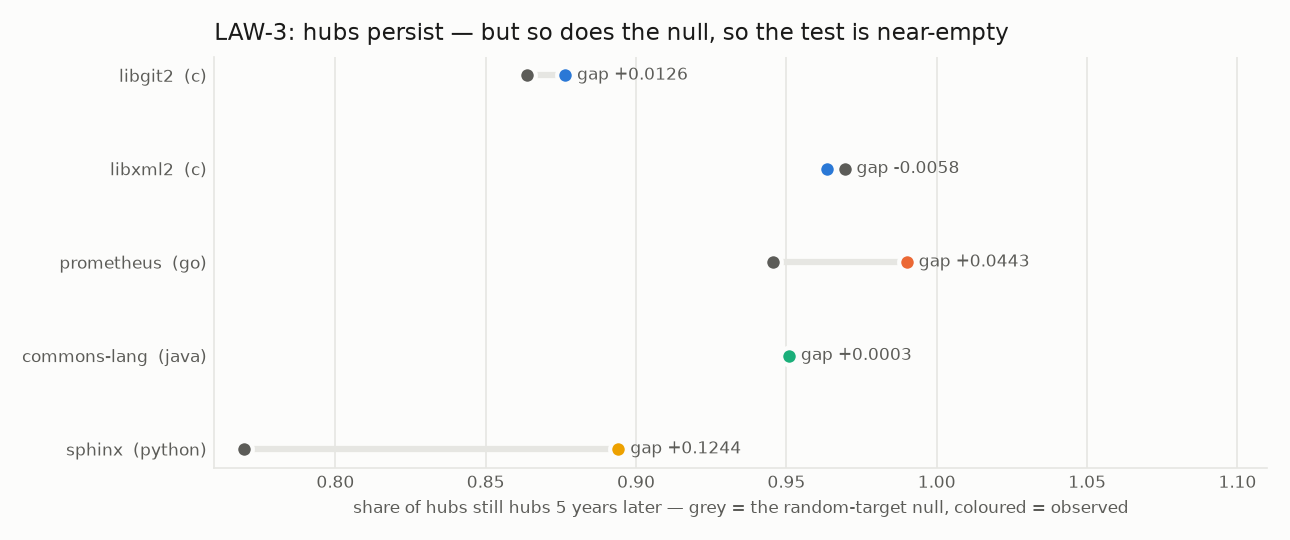
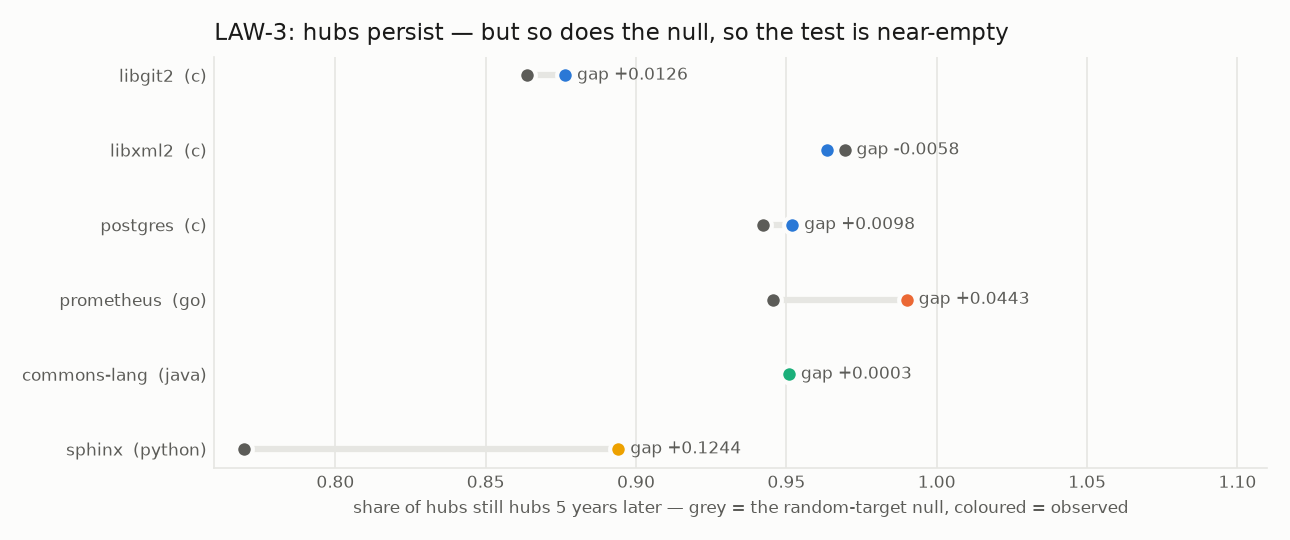
LAWS exploratory: 8 development repos, and one law survives every check
The full law run over the eight development repos whose quarterly walks already
existed -- 626 quarterly snapshots, 5 languages, 0 law failures, 13,096 s. Kept
because the owner asked what the data we DID get can still say. Descriptive, the
development set, not a panel result; LAWS stays closed as a failure.

**LAW-2 preferential attachment is the only law that holds up under everything.**
8 of 8 repos clear the registered margin with the whole 95% interval (effects 1.16
to 1.79, every language); it moves a median of 5% when 44% of resolved call edges
are deleted; and it needs the smallest panel of any law, ~2 repos per language.

**LAW-5 decay is contradicted.** Its registered direction fails in 7 of 8 repos --
only ripgrep, much the youngest at 33 quarters, decays. In the older C projects
directory modularity is flat or RISING across two decades.

The rest do not survive their own diagnostics:

- LAW-1 heavy tails: 6/8 clear the margin, but x_min runs 1-10 and "the tail" is
  8% to 100% of nodes depending on the repo, and the power law is rejected outright
  in sphinx, whose registered effect is positive anyway.
- LAW-4 centralisation: 5/8 statistically non-zero at a largest Gini gap of 0.029,
  and the coverage ladder now puts its worst case at 1093% -- up from 30% on five
  repos. Detectable, not meaningful, and tracking the extractor.
- LAW-3 hub persistence: 1/6, null sits on the observation, 157% swing.
- LAW-8: adding network metrics moves AUC by -0.028 to +0.015.
[…]

diff --git a/tools/laws_explore.py b/tools/laws_explore.py
@@ -291,8 +291,14 @@ def sensitivity(repos, thinned, share, figdir: Path, md: Path):
     ax.axvline(0, color=MUTED, lw=1.2, zorder=2)
     ax.set_yticks(range(len(rows)))
     ax.set_yticklabels([f"{r} · {l}" for r, l, _, _, _ in rows], fontsize=7.5, color=INK)
-    ax.set_xlabel(f"% change in the law's effect when {(1-(share or 0))*100:.0f}% of resolved edges are removed",
-                  fontsize=8, color=MUTED)
+    # symlog: one repo's LAW-4 moves by ~1000% while most cells sit under 30%. On a linear axis that single
+    # outlier flattens every other mark into the spine, which hides the comparison the figure exists to make.
+    ax.set_xscale("symlog", linthresh=20)
+    ax.set_xticks([-1000, -100, -20, 0, 20, 100, 1000])
+    ax.set_xticklabels(["-1000%", "-100%", "-20%", "0", "+20%", "+100%", "+1000%"])
+    ax.axvspan(-20, 20, color=GRID, alpha=0.45, zorder=0)  # the linear band, so the scale change is visible
+    ax.set_xlabel(f"% change in the law's effect when {(1-(share or 0))*100:.0f}% of resolved edges are removed"
+                  f"  —  shaded band is +/-20%, axis is symlog beyond it", fontsize=8, color=MUTED)
     ax.set_facecolor(SURFACE)
     for sp in ("top", "right"):
         ax.spines[sp].set_visible(False)
@@ -300,7 +306,9 @@ def sensitivity(repos, thinned, share, figdir: Path, md: Path):
         ax.spines[sp].set_color(GRID)
     ax.tick_params(colors=MUTED, labelsize=8, length=0)
     ax.grid(axis="x", color=GRID, lw=0.8); ax.set_axisbelow(True); ax.invert_yaxis()
-    ax.set_title("Which laws survive a worse call graph? LAW-2 barely moves; LAW-3 swings by half",
+    worst = max(rows, key=lambda r: abs(r[4]))
+    ax.set_title(f"Which laws survive a worse call graph? LAW-2 barely moves; "
+                 f"{worst[0]} {worst[1]} moves {worst[4]*100:+.0f}%",
                  fontsize=11, color=INK, loc="left", pad=8)
     fig.tight_layout(); q = figdir / "f7_coverage_sensitivity.png"
     fig.savefig(q, dpi=150, facecolor=SURFACE); plt.close(fig)

diff --git a/docs/laws_exploratory_tables.md b/docs/laws_exploratory_tables.md
@@ -1,17 +1,20 @@
 # LAWS exploratory tables (development repos only; descriptive)
 
-5 repos, 4 languages. `clears` = the whole 95% interval is past the registered margin in the registered direction.
+8 repos, 5 languages. `clears` = the whole 95% interval is past the registered margin in the registered direction.
 
 
 ## LAW-1 heavy tails (margin 0.0)
 
 | repo | language | effect | SE | 95% interval | verdict | note |
 |---|---|---|---|---|---|---|
-| libgit2 | c | +0.1836 | 0.0401 | +0.105, +0.262 | **clears** | x_min 2, tail 48% of nodes, GOF p 0.603, strength strong |
-| libxml2 | c | +0.0618 | 0.0326 | -0.002, +0.126 | **straddles** | x_min 10, tail 8% of nodes, GOF p 0.303, strength strong |
-| prometheus | go | +0.0877 | 0.0179 | +0.053, +0.123 | **clears** | x_min 2, tail 40% of nodes, GOF p 0.444, strength weak |
-| commons-lang | java | +0.1132 | 0.0575 | +0.001, +0.226 | **clears** | x_min 3, tail 23% of nodes, GOF p 0.264, strength strong |
-| sphinx | python | +0.0999 | 0.0182 | +0.064, +0.136 | **clears** | x_min 1, tail 100% of nodes, GOF p 0.012, strength none |
+| libgit2 | c | +0.1836 | 0.0413 | +0.103, +0.265 | **clears** | x_min 2, tail 48% of nodes, GOF p 0.603, strength strong |
+| libxml2 | c | +0.0618 | 0.0334 | -0.004, +0.127 | **straddles** | x_min 10, tail 8% of nodes, GOF p 0.291, strength strong |
+| postgres | c | +0.2634 | 0.0237 | +0.217, +0.310 | **clears** | x_min 3, tail 32% of nodes, GOF p 0.492, strength weak |
+| redis | c | +0.1688 | 0.0259 | +0.118, +0.220 | **clears** | x_min 5, tail 17% of nodes, GOF p 0.401, strength strong |
+| prometheus | go | +0.0877 | 0.0175 | +0.053, +0.122 | **clears** | x_min 2, tail 40% of nodes, GOF p 0.444, strength weak |
+| commons-lang | java | +0.1132 | 0.0583 | -0.001, +0.228 | **straddles** | x_min 3, tail 23% of nodes, GOF p 0.265, strength strong |
+| sphinx | python | +0.0999 | 0.0181 | +0.064, +0.135 | **clears** | x_min 1, tail 100% of nodes, GOF p 0.012, strength none |
+| ripgrep | rust | +0.0497 | 0.0177 | +0.015, +0.084 | **clears** | x_min 3, tail 33% of nodes, GOF p 0.056, strength none |
 
 ## LAW-2 preferential attachment (margin 0.0)
 
@@ -19,9 +22,12 @@
 |---|---|---|---|---|---|---|
 | libgit2 | c | +1.3097 | 0.0301 | +1.251, +1.369 | **clears** |  |
 | libxml2 | c | +1.2721 | 0.0374 | +1.199, +1.345 | **clears** |  |
+| postgres | c | +1.4108 | 0.0240 | +1.364, +1.458 | **clears** |  |
+| redis | c | +1.4025 | 0.0288 | +1.346, +1.459 | **clears** |  |
 | prometheus | go | +1.4921 | 0.1680 | +1.163, +1.821 | **clears** |  |
 | commons-lang | java | +1.2367 | 0.0663 | +1.107, +1.367 | **clears** |  |
 | sphinx | python | +1.7876 | 0.0775 | +1.636, +1.939 | **clears** |  |
+| ripgrep | rust | +1.1566 | 0.1515 | +0.860, +1.454 | **clears** |  |
 
 ## LAW-3 hub persistence (margin 0.0)
 
@@ -29,19 +35,25 @@
 |---|---|---|---|---|---|---|
 | libgit2 | c | +0.0126 | 0.0110 | -0.009, +0.034 | **straddles** | observed 0.876 vs null 0.864 |
 | libxml2 | c | -0.0058 | 0.0052 | -0.016, +0.005 | **straddles** | observed 0.964 vs null 0.969 |
+| postgres | c | +0.0098 | 0.0055 | -0.001, +0.021 | **straddles** | observed 0.952 vs null 0.942 |
+| redis | c | — | — | — | **not evaluable** | ceiling: the null does not move (mean SD 0.0007 < 0.005) |
 | prometheus | go | +0.0443 | 0.0305 | -0.015, +0.104 | **straddles** | observed 0.990 vs null 0.946 |
 | commons-lang | java | +0.0003 | 0.0025 | -0.004, +0.005 | **straddles** | observed 0.951 vs null 0.950 |
 | sphinx | python | +0.1244 | 0.0439 | +0.038, +0.210 | **clears** | observed 0.894 vs null 0.770 |
+| ripgrep | rust | — | — | — | **not evaluable** | fewer than 3 five-year pairs with 10 hubs |
 
 ## LAW-4 centralisation (margin 0.0)
 
 | repo | language | effect | SE | 95% interval | verdict | note |
 |---|---|---|---|---|---|---|
-| libgit2 | c | +0.0036 | 0.0008 | +0.002, +0.005 | **clears** | Gini 0.625 vs replay 0.622 |
-| libxml2 | c | +0.0258 | 0.0031 | +0.020, +0.032 | **clears** | Gini 0.581 vs replay 0.556 |
-| prometheus | go | +0.0150 | 0.0031 | +0.009, +0.021 | **clears** | Gini 0.439 vs replay 0.424 |
-| commons-lang | java | +0.0252 | 0.0031 | +0.019, +0.031 | **clears** | Gini 0.475 vs replay 0.450 |
-| sphinx | python | -0.0052 | 0.0061 | -0.017, +0.007 | **straddles** | Gini 0.512 vs replay 0.517 |
+| libgit2 | c | +0.0036 | 0.0009 | +0.002, +0.005 | **clears** | Gini 0.625 vs replay 0.622 |
+| libxml2 | c | +0.0258 | 0.0032 | +0.020, +0.032 | **clears** | Gini 0.581 vs replay 0.556 |
+| postgres | c | +0.0012 | 0.0008 | -0.000, +0.003 | **straddles** | Gini 0.754 vs replay 0.753 |
+| redis | c | +0.0293 | 0.0026 | +0.024, +0.035 | **clears** | Gini 0.655 vs replay 0.625 |
+| prometheus | go | +0.0149 | 0.0030 | +0.009, +0.021 | **clears** | Gini 0.439 vs replay 0.424 |
+| commons-lang | java | +0.0249 | 0.0030 | +0.019, +0.031 | **clears** | Gini 0.475 vs replay 0.450 |
+| sphinx | python | -0.0050 | 0.0055 | -0.016, +0.006 | **straddles** | Gini 0.512 vs replay 0.517 |
+| ripgrep | rust | -0.0013 | 0.0019 | -0.005, +0.002 | **straddles** | Gini 0.568 vs replay 0.570 |
 
 ## LAW-6 in-cycle defects (margin 0.0)
 
@@ -49,9 +61,12 @@
 |---|---|---|---|---|---|---|
 | libgit2 | c | -0.3498 | 0.2188 | -0.779, +0.079 | **straddles** |  |
 | libxml2 | c | — | — | — | **not evaluable** | in-cycle share 0.001 outside 0.05-0.8 |
+| postgres | c | +0.0917 | 0.0877 | -0.080, +0.264 | **straddles** |  |
+| redis | c | — | — | — | **not evaluable** | in-cycle share 0.020 outside 0.05-0.8 |
 | prometheus | go | -0.0025 | 0.1705 | -0.337, +0.332 | **straddles** |  |
 | commons-lang | java | -0.0191 | 0.1709 | -0.354, +0.316 | **straddles** |  |
 | sphinx | python | -0.3926 | 0.2647 | -0.911, +0.126 | **straddles** |  |
+| ripgrep | rust | +0.3927 | 0.3032 | -0.202, +0.987 | **straddles** |  |
 
 ## LAW-8 network metrics add to prediction (margin 0.02)
 
@@ -59,9 +74,12 @@
 |---|---|---|---|---|---|---|
 | libgit2 | c | +0.0026 | 0.0184 | -0.034, +0.039 | **straddles** | AUC 0.786 -> 0.758 |
 | libxml2 | c | +0.0224 | 0.0081 | +0.007, +0.038 | **straddles** | AUC 0.843 -> 0.858 |
+| postgres | c | +0.0046 | 0.0013 | +0.002, +0.007 | **opposite** | AUC 0.801 -> 0.805 |
+| redis | c | +0.0053 | 0.0087 | -0.012, +0.022 | **straddles** | AUC 0.861 -> 0.869 |
 | prometheus | go | -0.0006 | 0.0071 | -0.014, +0.013 | **opposite** | AUC 0.863 -> 0.865 |
 | commons-lang | java | +0.0011 | 0.0128 | -0.024, +0.026 | **straddles** | AUC 0.757 -> 0.755 |
 | sphinx | python | -0.0067 | 0.0044 | -0.015, +0.002 | **opposite** | AUC 0.806 -> 0.806 |
+| ripgrep | rust | — | — | — | **not evaluable** | fewer than 3 test years with 3 training years and 10 positives |
 
 ## LAW-5 decay (descriptive; registered direction is modularity DOWN)
 
@@ -69,9 +87,12 @@
 |---|---|---|---|---|---|
 | libgit2 | c | +0.0020 | 0.0009 | -0.01086 | **NO** |
 | libxml2 | c | +0.0019 | 0.0004 | +0.00016 | **NO** |
+| postgres | c | -0.0017 | 0.0014 | -0.00438 | **NO** |
+| redis | c | +0.0003 | 0.0004 | +0.00285 | **NO** |
 | prometheus | go | -0.0035 | 0.0052 | -0.00181 | **NO** |
 | commons-lang | java | +0.0001 | 0.0069 | -0.00002 | **NO** |
 | sphinx | python | -0.0112 | 0.0048 | -0.00052 | **NO** |
+| ripgrep | rust | -0.0016 | 0.0024 | +0.00128 | YES |
 
 ## LAW-7 size confound (AME before and after adjustment)
 
@@ -79,6 +100,9 @@
 |---|---|---|---|---|---|---|
 | libgit2 | coupling | 0.0668 | 0.0020 | 97% | 0.971 | 0.151 |
 | libxml2 | coupling | 0.2360 | 0.1001 | 58% | 0.576 | 0.085 |
+| postgres | coupling | 0.2103 | 0.0547 | 74% | 0.740 | 0.045 |
+| postgres | in_cycle | 0.1256 | 0.0069 | 95% | 0.945 | 0.150 |
+| redis | coupling | 0.3627 | 0.1485 | 59% | 0.591 | 0.063 |
 | prometheus | coupling | 0.2052 | 0.0516 | 75% | 0.749 | 0.077 |
 | prometheus | in_cycle | 0.3541 | 0.0632 | 82% | 0.822 | 0.067 |
 | commons-lang | k_mean | 0.0381 | 0.0177 | 53% | 0.534 | 0.198 |
@@ -87,6 +111,8 @@
 | sphinx | k_mean | 0.0318 | 0.0190 | 40% | 0.403 | 1.382 |
 | sphinx | coupling | 0.1344 | 0.0655 | 51% | 0.513 | 0.107 |
 | sphinx | in_cycle | 0.1610 | 0.0520 | 68% | 0.677 | 0.301 |
+| ripgrep | coupling | 0.0840 | 0.0122 | 85% | 0.854 | 0.449 |
+| ripgrep | in_cycle | 0.1876 | 0.0669 | 64% | 0.644 | 0.240 |
 
 ## Coverage sensitivity — the same laws with 44% of resolved call edges removed
 
@@ -94,7 +120,7 @@ Edges kept: 55.6%. A law whose number barely moves is reporting the CODE; one th
 
 | law | repos | median |change| | worst |change| | reading |
 |---|---|---|---|---|
-| LAW-1 heavy tails | 5 | 11% | 26% | **sensitive — treat with care** |
-| LAW-2 preferential attachment | 5 | 5% | 10% | **robust to coverage** |
-| LAW-3 hub persistence | 3 | 49% | 157% | **coverage-dominated — not usable compile-free** |
-| LAW-4 centralisation | 5 | 12% | 30% | **sensitive — treat with care** |
+| LAW-1 heavy tails | 8 | 11% | 26% | **sensitive — treat with care** |
+| LAW-2 preferential attachment | 8 | 5% | 10% | **robust to coverage** |
+| LAW-3 hub persistence | 4 | 46% | 157% | **coverage-dominated — not usable compile-free** |
+| LAW-4 centralisation | 8 | 25% | 1093% | **coverage-dominated — not usable compile-free** |

diff --git a/docs/laws_exploratory.md b/docs/laws_exploratory.md
@@ -1,0 +1,91 @@
+# What the LAWS data says, exploratory — 8 development repos, 5 languages
+
+**Status: descriptive, development set, not a result.** LAWS is closed as a failure (`laws_postmortem.md`); no
+panel repository was ever scanned or labelled. What follows is the full law run over the eight **development**
+repositories whose quarterly walks were already built, kept because the owner asked what the data we did get
+can still say. Every number here would have to be re-earned on a real panel before it could be claimed.
+
+Run: `laws_run.py --matched-coverage` over 8 repos, **0 law failures**, 13,096 s. Tables:
+`laws_exploratory_tables.md`. Figures: `laws_figs/`. Reproduce with `tools/laws_explore.py`.
+
+| repo | language | quarters |
+|---|---|---|
+| commons-lang | java | 97 |
+| prometheus | go | 55 |
+| sphinx | python | 75 |
+| libgit2 | c | 72 |
+| libxml2 | c | 108 |
+| postgres | c | 121 |
+| redis | c | 65 |
+| ripgrep | rust | 33 |
+
+## The headline: one law survives everything, and one is contradicted
+
+**LAW-2, preferential attachment, is the only law here that holds up under every check.**
+
+- **8 of 8 repos** clear the registered margin with the whole 95% interval. Effects 1.16 to 1.79, every language.
+- It is **robust to the instrument**: deleting 44% of resolved call edges moves it a median of 5%, worst case 10%.
+- It needs the **smallest panel** of any law: ~2 repos per language.
+
+New calls really do attach to already-popular functions, beyond what a fitness-only null explains, in Java, Go,
+Python, C and Rust. If any claim from this family deserves a proper confirmatory study, it is this one.
+
+**LAW-5, decay, is the one the data argues against.** The registered direction — modularity falling over time —
+**fails in 7 of 8 repos**. Only ripgrep, by far the youngest at 33 quarters, decays. In the older C projects
+modularity is flat or *rising* across two decades. Whatever software rot is, this measurement does not find it.
+
+## Law by law
+
+| law | repos clearing margin | coverage sensitivity | reading |
+|---|---|---|---|
+| **LAW-2** attachment | **8 / 8** | 10% worst | **supported, and robust** |
+| **LAW-1** heavy tails | 6 / 8 | 26% worst | supported in direction, fragile in definition |
+| **LAW-4** centralisation | 5 / 8 | **1093% worst** | statistically present, substantively nil, instrument-dominated |
+| **LAW-3** hub persistence | 1 / 6 | **157% worst** | not evidence either way |
+| **LAW-5** decay | — (descriptive) | — | **contradicted: 7 of 8 go the other way** |
+| **LAW-8** network metrics predict defects | — | — | **no: AUC moves −0.028 to +0.015** |
+
+**LAW-1 heavy tails.** Six of eight clear the margin, effects +0.05 to +0.26. But "the tail" is not one object:
+the KS-chosen x_min runs 1 to 10 and the tail covers **8% to 100%** of nodes depending on the repo, and the
+power law is rejected outright (GOF p<0.05) in sphinx, whose registered effect is nonetheless positive. The
+direction looks real; the quantity is not comparable across repos as currently defined.
+
+**LAW-4 centralisation.** Five of eight are statistically non-zero, yet the largest Gini gap is 0.029 on a 0–1
+scale — detectable, not meaningful. With 8 repos the coverage ladder also shows the worst case at **1093%**,
+up from 30% on five repos: the number tracks the extractor more than the code. Both facts point the same way.
+
+**LAW-3 hub persistence.** Hubs persist (0.88–0.99) but so does the random-target null, leaving gaps of −0.006
+to +0.12, one of six clearing the margin, and a 157% swing under edge loss. It is a ceiling test: when almost
+everything persists, so does the null.
+
+**LAW-8.** Adding the network metrics to the defect predictor moves AUC by between −0.028 and +0.015. In the
+one repo where it helps most it is +0.015; in libgit2 it actively hurts.
+
+**LAW-7, as a side note, is largely size.** Adjusting for size removes 60–90% of the structural signal
+(in-cycle AME 0.239 → 0.051 in commons-lang).
+
+## What this costs to do properly
+
+Panel size per law, from the between-repo variance of these eight runs (`tools/laws2_size.py`):
+
+| law | repos per language |
+|---|---|
+| LAW-2 | **2** |
+| LAW-1 | **5** |
+| LAW-4 | 22 |
+| LAW-3 | 32 |
+| LAW-8 | 61 |
+| LAW-6 | **>400** |
+
+Only LAW-1 and LAW-2 are affordable. LAWS 1 registered a uniform 16 per confirmatory language, which was
+generous for the two feasible laws and far short for the rest — and it is the kind of thing that should be
+known before a frame is built, not after a study is abandoned.
+
+## Caveats that matter
+
+- **Eight repos, five languages, mostly one or two per language.** Between-repo and between-language variation
+  are tangled; the sizing numbers are order-of-magnitude planning figures, not estimates.
+- **Development repos, chosen long ago for convenience, not drawn.** No claim about any language follows.
+- **One instrument.** Every number comes from the same compile-free extractor. The coverage ladder bounds how
+  much that matters per law, which is exactly why LAW-3 and LAW-4 are reported as instrument-dominated.
+- **LAW-9 is effectively absent**: 7 of 8 repos have no sized OSV fix table, so it was evaluable once.

diff --git a/docs/laws2_design.md b/docs/laws2_design.md
@@ -20,7 +20,7 @@ extractor:
 |---|---|---|
 | LAW-2 preferential attachment | 10% | **confirmatory; a compile-free graph is good enough** |
 | LAW-1 heavy tails | 26% | confirmatory, but coverage reported with every number |
-| LAW-4 centralisation | 30% | descriptive unless oracle-backed |
+| LAW-4 centralisation | **1093%** | **drop or redesign — instrument-dominated** (was 30% on 5 repos; 8 repos moved it) |
 | LAW-3 hub persistence | **157%** | **drop or redesign — it is reporting the extractor** |
 
 LAWS 1 applied one oracle gate to every law equally, and lost three of four confirmatory languages to it.
@@ -32,7 +32,16 @@ is cheap enough to run on everything.
 From the between-repo variance of the development runs (`tools/laws2_size.py`, recomputed by the `sizing`
 stage):
 
-<!--SIZING-->
+| law | repos used | mean effect | between-repo SD | tau | median SE | target half-width | **repos per language** |
+|---|---|---|---|---|---|---|---|
+| LAW-1 heavy tails | 8 | +0.1285 | 0.0720 | 0.0643 | 0.0248 | 0.0643 | **5** |
+| LAW-2 preferential attachment | 8 | +1.3835 | 0.1953 | 0.1732 | 0.0518 | 0.6917 | **2** |
+| LAW-3 hub persistence | 6 | +0.0309 | 0.0489 | 0.0434 | 0.0082 | 0.0155 | **32** |
+| LAW-4 centralisation | 8 | +0.0117 | 0.0137 | 0.0134 | 0.0028 | 0.0058 | **22** |
+| LAW-6 in-cycle defects | 6 | -0.0466 | 0.2920 | 0.1983 | 0.1949 | 0.0233 | **>400** |
+| LAW-8 network metrics in prediction | 7 | +0.0041 | 0.0090 | 0.0000 | 0.0081 | 0.0021 | **61** |
+
+(Generated by `tools/laws2_size.py` from the 8-repo development run; see `laws_exploratory.md`.)
 
 A single panel size is the wrong shape of decision. LAWS 1 registered 16 per confirmatory language: ample for
 LAW-1 and LAW-2, marginal for LAW-4, and far short for LAW-3 and LAW-8. **A law whose required k is out of

diff --git a/docs/laws2/panel_sizes.md b/docs/laws2/panel_sizes.md
@@ -1,0 +1,12 @@
+Panel size per law, from laws_run_all8.json (8 repos: commons-lang(java), prometheus(go), sphinx(python), libgit2(c), libxml2(c), postgres(c), redis(c), ripgrep(rust))
+
+| law | repos used | mean effect | between-repo SD | tau | median SE | target half-width | **repos per language** |
+|---|---|---|---|---|---|---|---|
+| LAW-1 heavy tails | 8 | +0.1285 | 0.0720 | 0.0643 | 0.0248 | 0.0643 | **5** |
+| LAW-2 preferential attachment | 8 | +1.3835 | 0.1953 | 0.1732 | 0.0518 | 0.6917 | **2** |
+| LAW-3 hub persistence | 6 | +0.0309 | 0.0489 | 0.0434 | 0.0082 | 0.0155 | **32** |
+| LAW-4 centralisation | 8 | +0.0117 | 0.0137 | 0.0134 | 0.0028 | 0.0058 | **22** |
+| LAW-6 in-cycle defects | 6 | -0.0466 | 0.2920 | 0.1983 | 0.1949 | 0.0233 | **>400** |
+| LAW-8 network metrics in prediction | 7 | +0.0041 | 0.0090 | 0.0000 | 0.0081 | 0.0021 | **61** |
+
+Order of magnitude, not a result: tau is estimated from very few repos and mixes between-repo with between-language variation. Recompute from the pilot of the study it sizes.
